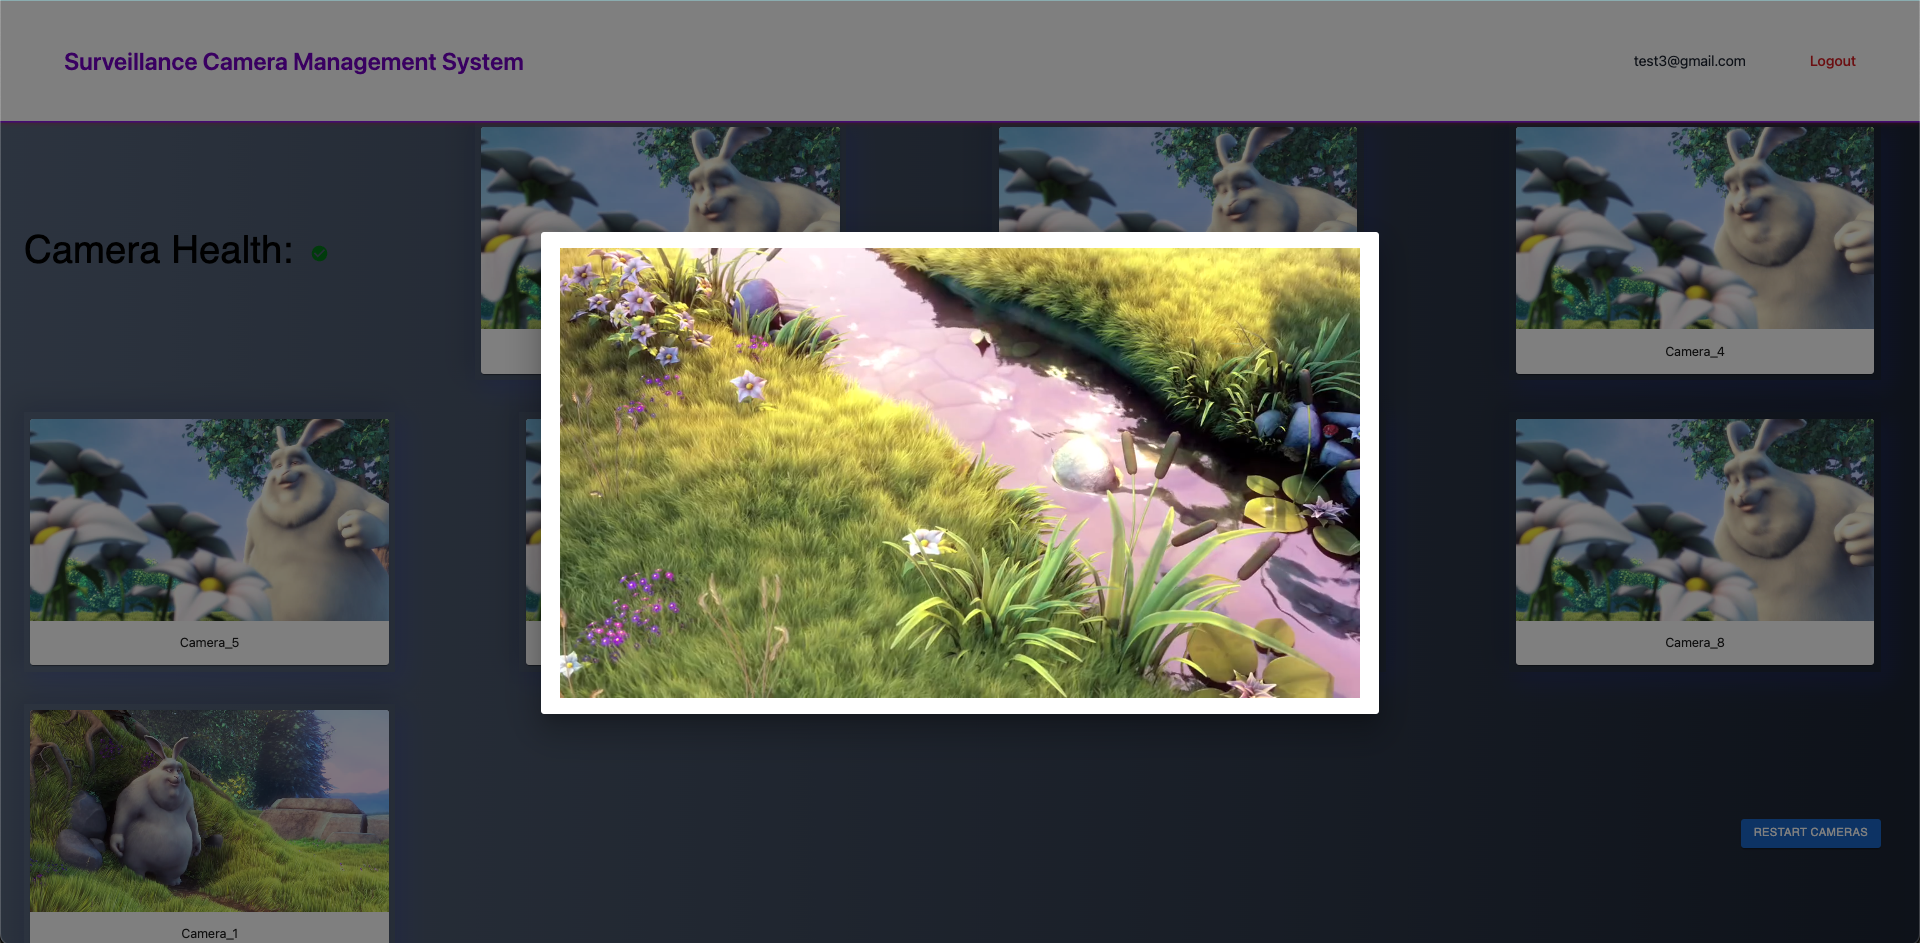
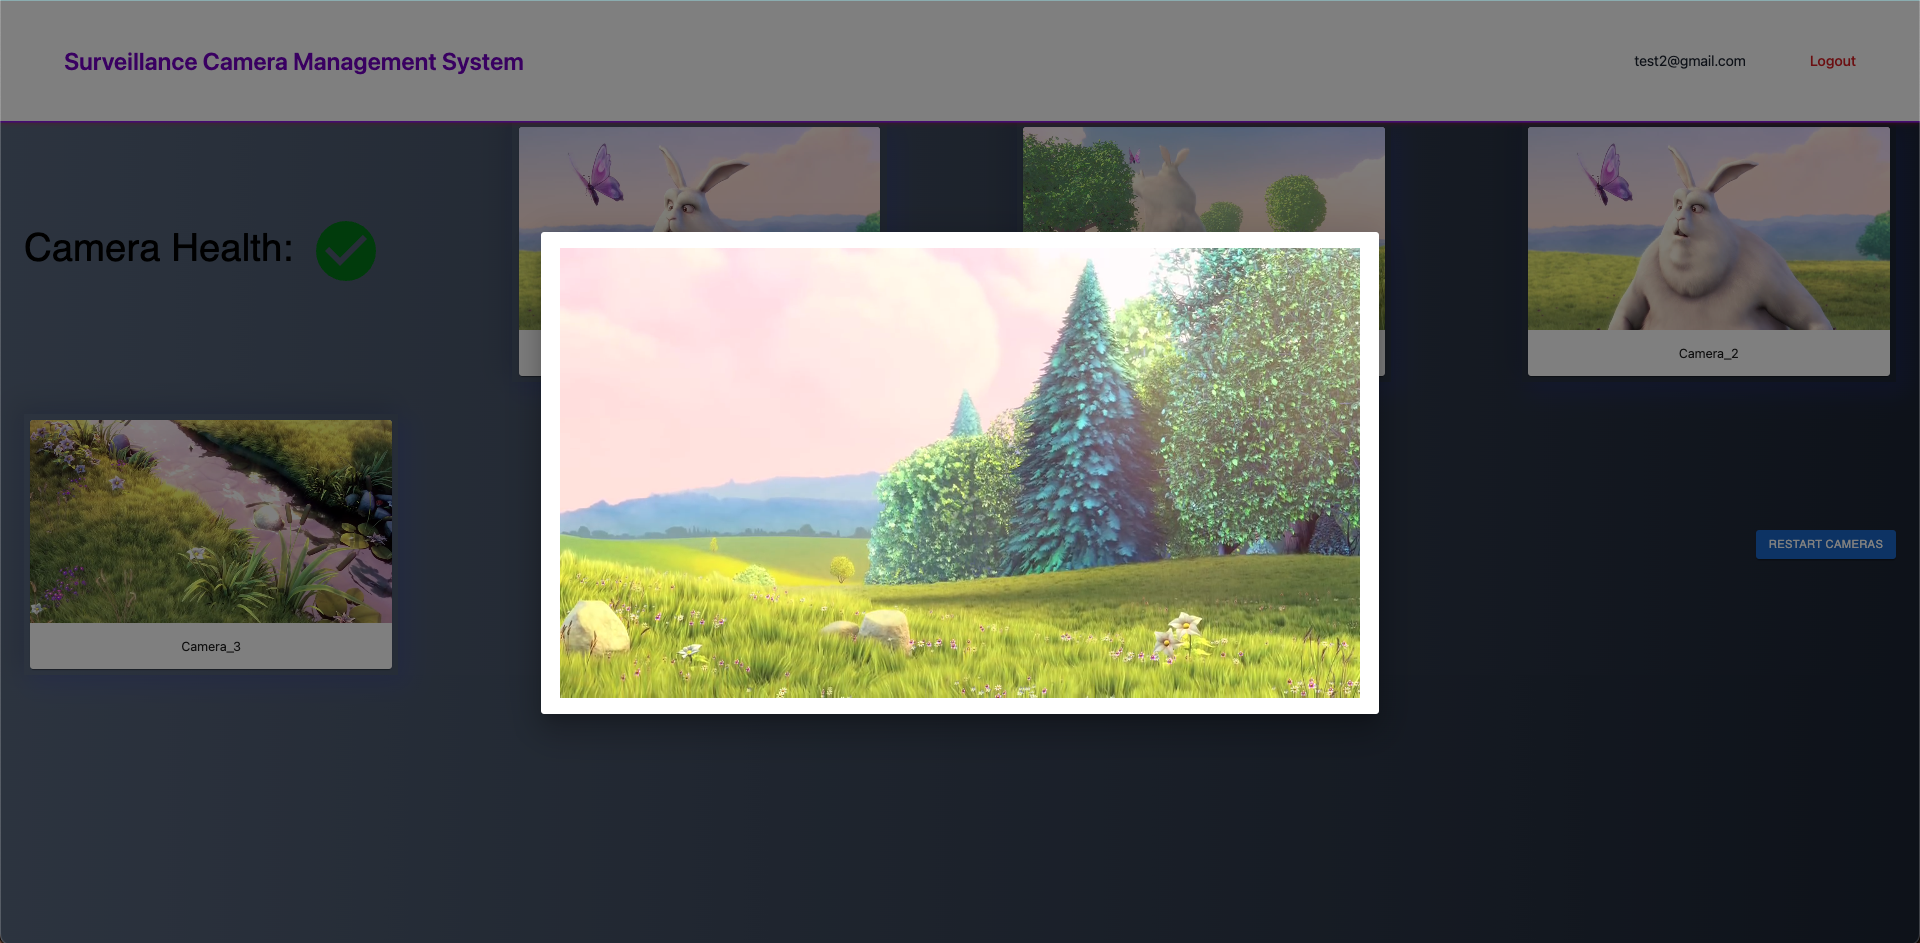
modified screenshots

diff --git a/client/src/pages/Dashboard.jsx b/client/src/pages/Dashboard.jsx
@@ -101,9 +101,9 @@ export default function Dashboard({}) {
                     }}>
                         Camera Health:{' '}
                         {camerasHealth ? (
-                            <CheckCircleIcon sx={{ color: 'green', ml: 1 }} />
+                            <CheckCircleIcon sx={{ color: 'green', ml: 1, fontSize: 90,}} />
                         ) : (
-                            <CancelIcon sx={{ color: 'red', ml: 1 }} />
+                            <CancelIcon sx={{ color: 'red', ml: 1, fontSize: 90, }} />
                         )}
                     </Typography>
                 {camerasData.map((camera, i) => (

diff --git a/README.md b/README.md
@@ -22,6 +22,7 @@ To setup the app,
 
 ## Setup Database
 
+- Install PostgreSQL using Homebrew (Mac)
 - Set a .env file using the .env.example provided in the server folder
 - Run psql in the server directory using `psql -d <project name in .env> -U <username in .env>`
 - Create tables in database using `\i <project path>/server/db/schema/<file name>.sql`
@@ -40,6 +41,11 @@ npm run local
 ```sh
 npm start
 ```
+and then you can log in with either these user names:
+1- test1@gmail.com
+2- test2@gmail.com
+3- test3@gmail.com
+and password is "test" for all of them
 
 ## ScreenShots
 
